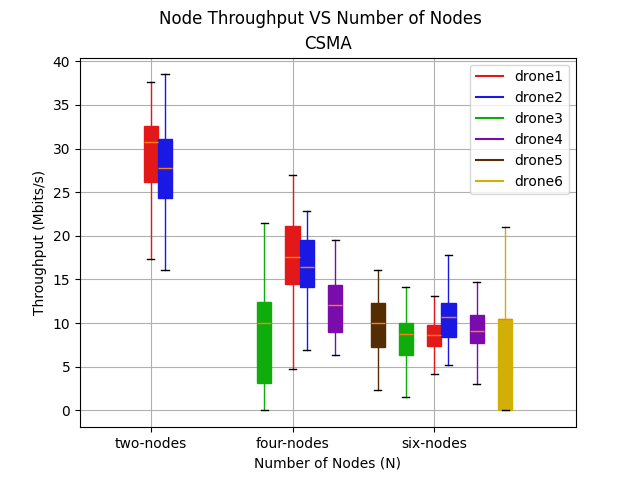
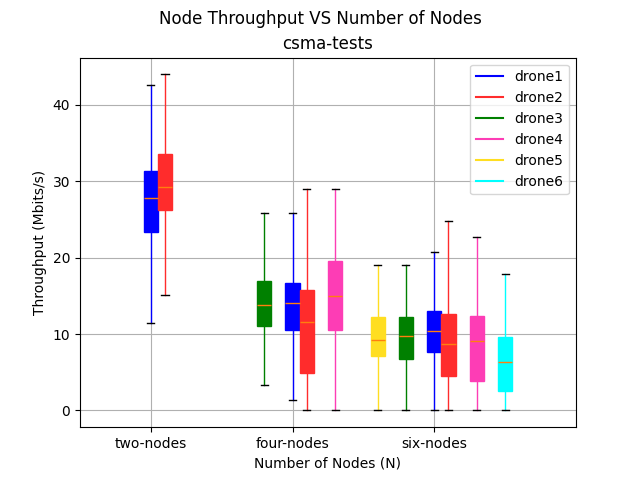
Updated plots

diff --git a/docs/logs/generateCharts.py b/docs/logs/generateCharts.py
@@ -15,8 +15,8 @@ tcp = 0
 filetransfer = 0
 sync_progression = 0
 
-test_folders = ['./noqdisc-tests', 
-               './tdma-50ms-slot-tests',]
+test_folders = ['./csma-tests', 
+               './tdma-tests',]
 
 # Number of Nodes
 six_nodes = 1
@@ -24,8 +24,8 @@ four_nodes = 1
 two_nodes = 1
 
 # Data aggregation
-distributions = 1
-node_number = 0
+distributions = 0
+node_number = 1
 over_time = 0
 
 # Throughput Regex
@@ -49,12 +49,13 @@ def convert_to_mbits(data):
 def parse_udp_logs(folder):
 
     file_list = os.listdir(folder)
-    dataframes = []
+    data_objects = []
+    dataframes = dict()
 
     file_list.sort()
 
     for file in file_list:
-        if 'drone' in file and 'ntp' not in file and 'a' not in file:            
+        if 'drone' in file and 'ntp' not in file:            
             f = open(folder + '/' + file, "r")
             n_lines = 0
             instants = []
@@ -76,6 +77,7 @@ def parse_udp_logs(folder):
 
                     n_lines+=1
 
+
             data = {
                 'Instant' : instants[5:-5],
                 'Throughput' : values[5:-5],
@@ -83,11 +85,21 @@ def parse_udp_logs(folder):
 
             df = pd.DataFrame(data)
             df['Throughput'] = df['Throughput'].astype(float)
-            dataframes.append({'node' : file.split('.txt')[0],
-                               'data' : df})
-            
 
-    return dataframes
+            key = file.split('-')[0]
+
+            if key in dataframes.keys():
+                dataframes[key].append(df)
+            else:
+                dataframes[key] = []
+                dataframes[key].append(df)
+
+    for key in dataframes.keys():
+        concat_df = pd.concat(dataframes[key], ignore_index=True)
+        data_objects.append({'node' : key,
+                             'data' : concat_df})
+
+    return data_objects
 
 def parse_tcp_logs(folder):
     return
@@ -198,8 +210,8 @@ def show_distributions():
             for data_object in data_object_list:
                 
                 df = data_object['data']
-                #axes[index].hist(df['Throughput'], bins=30, color='blue', alpha=0.7) 
-                axes[index].hist(df['Throughput'])   
+                axes[index].hist(df['Throughput'], bins=15, color='blue', alpha=0.7) 
+                #axes[index].hist(df['Throughput'])   
                 axes[index].set_title(key + '-' + data_object['node'])
                 axes[index].set_xlabel('Throughput (Mbits/s)')
                 axes[index].set_ylabel('Ocurrences')
@@ -437,7 +449,7 @@ def show_node_number_boxplot():
     plt.xlim(-3, len(ticks)*6)
 
     plt.suptitle("Node Throughput VS Number of Nodes")
-    plt.title('TDMA - 50ms slots')
+    plt.title(folder.split('/')[1])
     plt.xlabel("Number of Nodes (N)")
     plt.ylabel("Throughput (Mbits/s)") 
 
